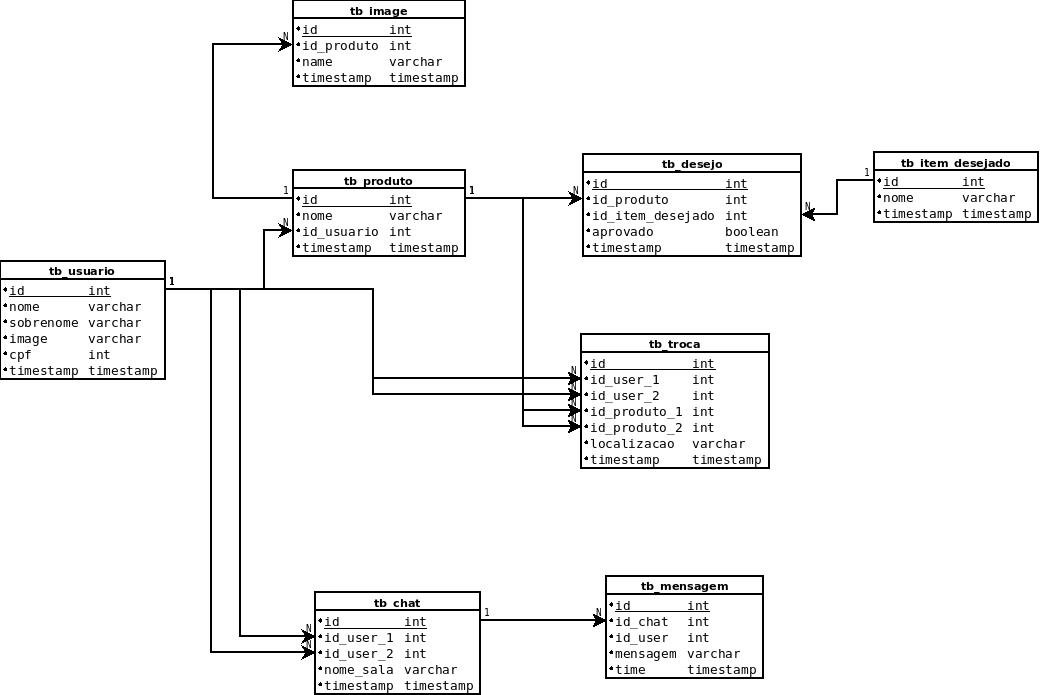
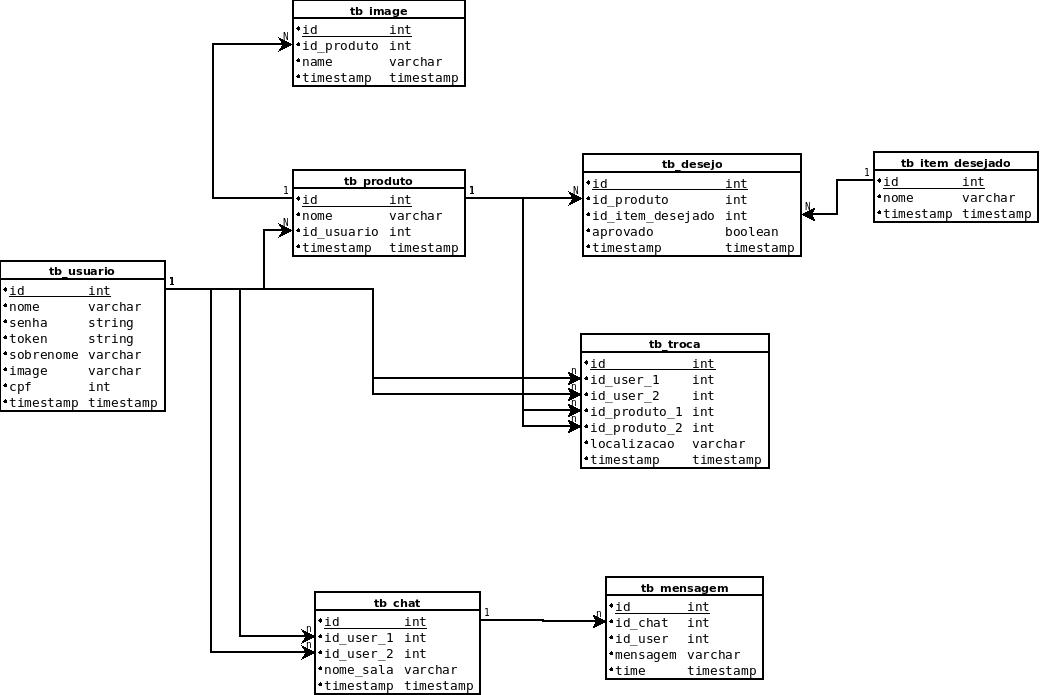
Rotas iniciais dos usuarios

Changed region(s): [[0.5538, 0.8158, 0.7385, 0.9971], [0.0, 0.4532, 0.1538, 0.6043]]

diff --git a/api/models/user.js b/api/models/user.js
@@ -5,11 +5,15 @@ module.exports = (sequelize, dataType) => {
       primaryKey: true,
       autoIncrement: true
     },
-    nome: {
+    name: {
       type: dataType.STRING(30),
       allowNull: false
     },
-    sobrenome: {
+    lastName: {
+      type: dataType.STRING(30),
+      allowNull: false
+    },
+    password: {
       type: dataType.STRING(30),
       allowNull: false
     },
@@ -19,6 +23,10 @@ module.exports = (sequelize, dataType) => {
     },
     cpf: {
       type: dataType.INTEGER,
+      allowNull: false
+    },
+    token: {
+      type: dataType.STRING,
       allowNull: false
     }
   },

diff --git a/configs/middlewares.js b/configs/middlewares.js
@@ -1,5 +1,13 @@
 const cors = require('cors');
 const bodyParser = require('body-parser');
+const timeout = require('express-timeout-handler');
+
+const options = {
+  timeout: 3000,
+  onTimeout: function (req, res) {
+    res.status(503).json({ message: 'Service unavailable.' });
+  }
+};
 
 module.exports = (app) => {
   app.use(cors({
@@ -7,4 +15,10 @@ module.exports = (app) => {
     allowedHeaders: ['Content-Type']
   }));
   app.use(bodyParser.json());
+  app.use(timeout.handler(options));
+  app.use((req, res, next) => {
+    next();
+  });
+
+  return app;
 }

diff --git a/configs/db.js b/configs/db.js
@@ -5,7 +5,7 @@ const path = require('path');
 let database = null;
 
 const importModels = (sequelize) => {
-  const dir = path.join(__dirname, '../models');
+  const dir = path.join(__dirname, '../api/models');
   let models = [];
 
   fs.readdirSync(dir).forEach(file => {
@@ -45,7 +45,7 @@ module.exports = (app) => {
 
     database.models = importModels(sequelize);
 
-    sequelize.sync({force: true}).done(() => {
+    sequelize.sync().done(() => {
       return database;
     });
   };

diff --git a/api/routers/user.js b/api/routers/user.js
@@ -1,0 +1,12 @@
+const userController = require('../controllers/userController');
+
+module.exports = (app) => {
+  const user = userController(app);
+
+  app.route('/users')
+    .get((req, res) => {
+      user.all()
+        .then(result => res.status(200).json({ data: result, message: 'users successfully returned' }))
+        .catch(error => res.status(500).json({ message: error.message }));
+    })
+}

diff --git a/api/controllers/userController.js b/api/controllers/userController.js
@@ -1,0 +1,13 @@
+module.exports = (app) => {
+  const User = app.configs.db.models.tb_user;
+
+  return {
+    all: () => {
+      return new Promise((resolve, reject) => {
+        User.findAll({})
+          .then(res => resolve(res))
+          .catch(error => reject(error));
+      });
+    }
+  }
+}

diff --git a/index.js b/index.js
@@ -14,7 +14,7 @@ const app = require('express')();
 load()
   .include('./configs/db.js')
   .then('./configs/middlewares.js')
-  .then('routers')
+  .then('api/routers')
   .into(app)
 
 // start server
